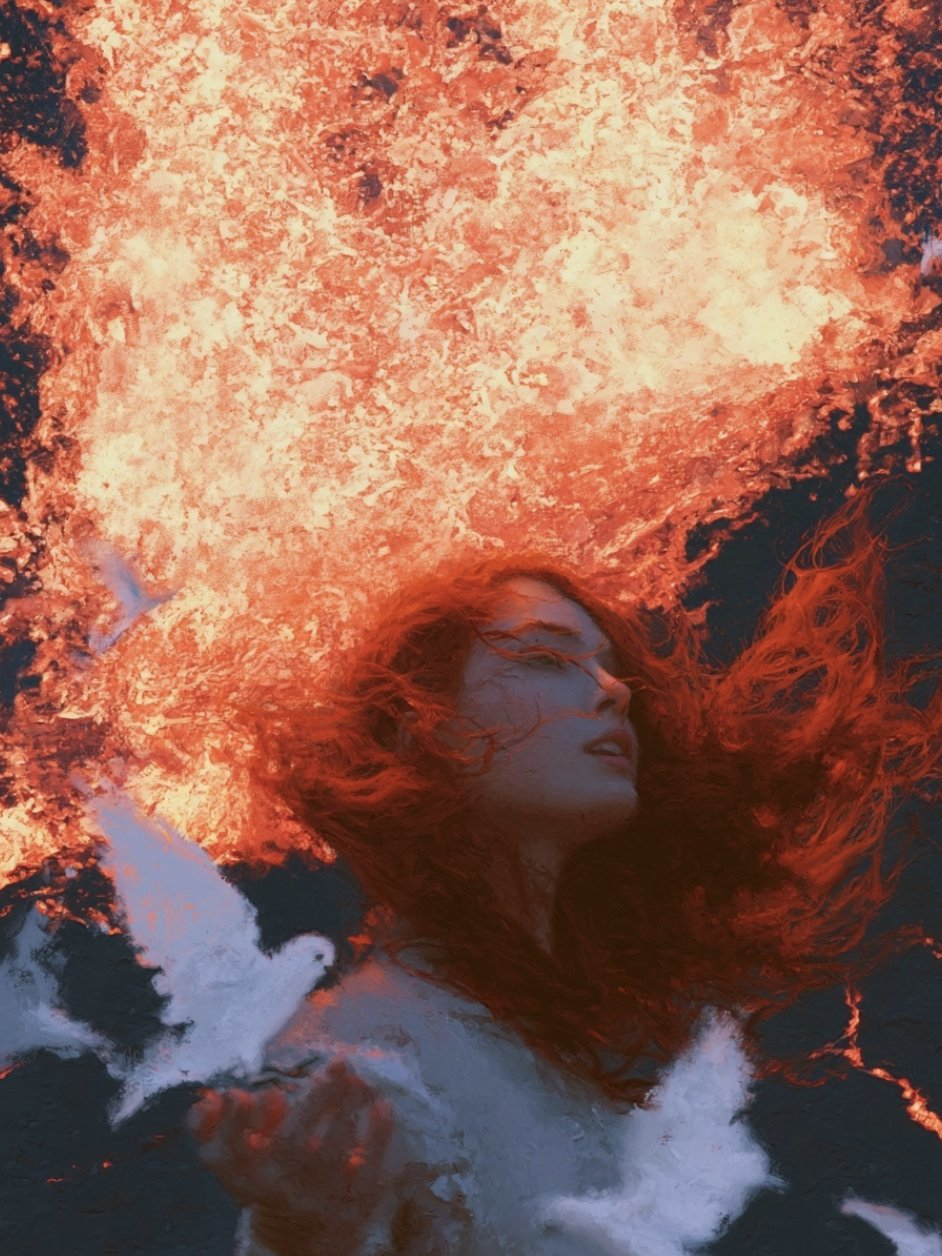
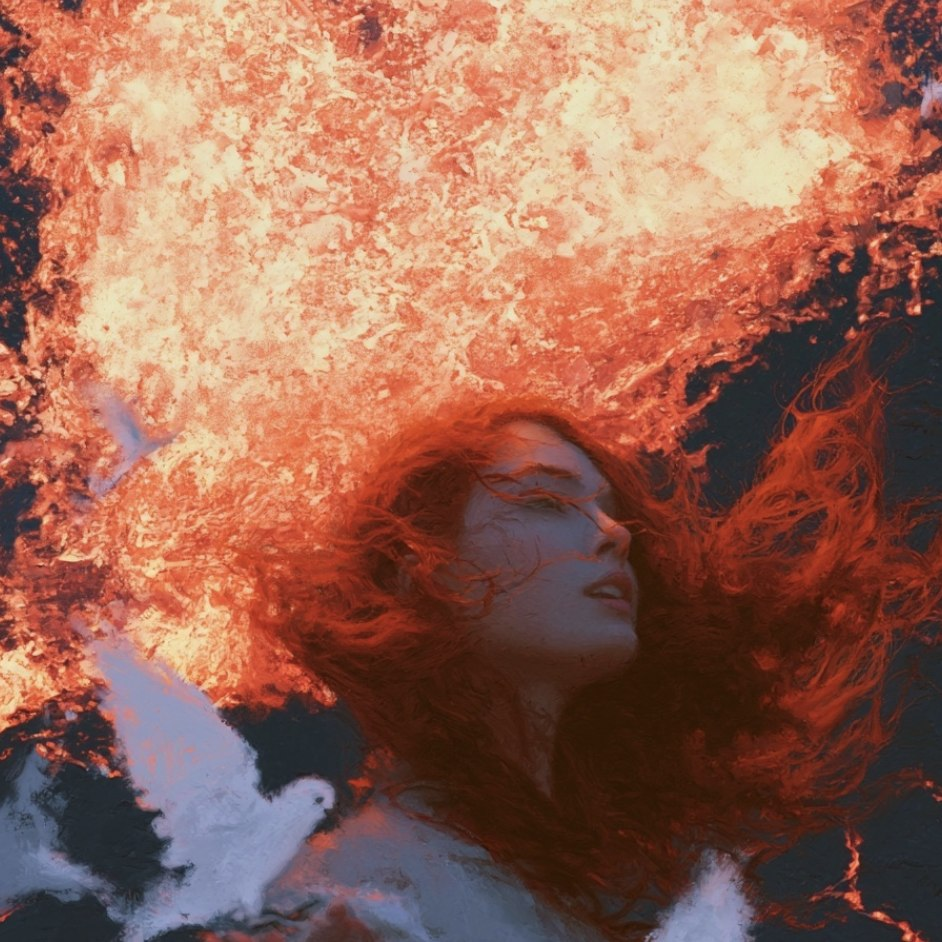
Rebuild the scroll gallery as a true 3D scene (R3F/Three.js)
Replaces the CSS/Framer 2D fade version with a real Three.js camera
dolly: 12 photos sit in a fixed 4x3 grid of 1:1 squares, each seeded
with its own initial depth offset (1-5 units back) and random tilt
(rotateX/Y up to 15deg, rotateZ up to 5deg). Scroll progress drives
the camera forward along Z (read straight off the track element's
bounding rect each frame, damped-lerp smoothed for glide/inertia, no
React state in the hot path); each tile's own local reveal window is
derived from its depth, so shallower tiles snap into focus first and
deeper ones catch up later. At full scroll every tile's local
progress reaches 1 and they flatten to rotation 0 on the shared grid
plane. Lazy-loaded (mirrors the ButterflyEgg/WorldArchive pattern) so
three.js stays out of the main bundle, wrapped in SafeMount, and
falls back to a static CSS grid under prefers-reduced-motion or if
WebGL/the chunk fails to load.

Source photos re-cropped to true 1:1 squares (were the original
aspect ratios) since the grid logic now depends on square tiles.

diff --git a/src/components/ScrollGalleryScene.jsx b/src/components/ScrollGalleryScene.jsx
@@ -1,0 +1,148 @@
+import { useMemo, useRef } from 'react'
+import { Canvas, useFrame, useThree } from '@react-three/fiber'
+import { useTexture } from '@react-three/drei'
+import * as THREE from 'three'
+
+const COLS = 4
+const ROWS = 3
+const UNIT = 2 // each square is 2x2 world units
+const GAP = 0.35
+const STEP = UNIT + GAP
+
+/** Deterministic pseudo-random (mulberry32) so the scatter doesn't reshuffle
+ *  on every re-render/reload — same approach as WorldArchive's layout seed. */
+function mulberry32(seed) {
+  let a = seed
+  return () => {
+    a |= 0
+    a = (a + 0x6d2b79f5) | 0
+    let t = Math.imul(a ^ (a >>> 15), 1 | a)
+    t = (t + Math.imul(t ^ (t >>> 7), 61 | t)) ^ t
+    return ((t ^ (t >>> 14)) >>> 0) / 4294967296
+  }
+}
+
+/** Base grid position (fixed, never animated) + each tile's initial depth
+ *  offset and tilt (animated to 0 as its own local scroll window completes).
+ *  Depth directly drives the reveal window: tiles seeded further back
+ *  (more negative z) get a later window, so the camera "reaches" shallow
+ *  tiles first and deep ones last — the async, staggered pass-by. */
+function useTileLayout() {
+  return useMemo(() => {
+    const rand = mulberry32(20260704)
+    const deg = (d) => (d * Math.PI) / 180
+
+    return Array.from({ length: COLS * ROWS }, (_, i) => {
+      const col = i % COLS
+      const row = Math.floor(i / COLS)
+      const x = (col - (COLS - 1) / 2) * STEP
+      const y = ((ROWS - 1) / 2 - row) * STEP
+
+      const depth = 1 + rand() * 4 // 1..5 world units behind the flat grid plane
+      const rotX = (rand() * 2 - 1) * deg(15)
+      const rotY = (rand() * 2 - 1) * deg(15)
+      const rotZ = (rand() * 2 - 1) * deg(5)
+
+      const lateness = (depth - 1) / 4 // 0 (shallow) .. 1 (deepest)
+      const start = lateness * 0.5
+      const end = Math.min(1, start + 0.55)
+
+      return { x, y, depth, rotX, rotY, rotZ, start, end }
+    })
+  }, [])
+}
+
+function Tile({ tile, texture, progressRef }) {
+  const ref = useRef(null)
+
+  useFrame(() => {
+    const mesh = ref.current
+    if (!mesh) return
+    const p = progressRef.current
+    const local = THREE.MathUtils.clamp((p - tile.start) / (tile.end - tile.start), 0, 1)
+    const eased = local * local * (3 - 2 * local) // smoothstep — gentle ease, no overshoot
+
+    mesh.position.z = -tile.depth * (1 - eased)
+    mesh.rotation.x = tile.rotX * (1 - eased)
+    mesh.rotation.y = tile.rotY * (1 - eased)
+    mesh.rotation.z = tile.rotZ * (1 - eased)
+    const scale = 0.82 + 0.18 * eased
+    mesh.scale.setScalar(scale)
+    if (mesh.material) mesh.material.opacity = 0.08 + 0.92 * eased
+  })
+
+  return (
+    <mesh ref={ref} position={[tile.x, tile.y, -tile.depth]}>
+      <planeGeometry args={[UNIT, UNIT]} />
+      <meshBasicMaterial map={texture} transparent toneMapped={false} />
+    </mesh>
+  )
+}
+
+/** Camera dolly: reads live scroll progress off the track element's own
+ *  bounding rect every frame (no React state in the hot path) and eases the
+ *  actual camera position toward it with a damped lerp, so releasing the
+ *  scroll gesture glides a little further before settling instead of
+ *  snapping — the "inertia" the reference site has. */
+function CameraRig({ trackRef, progressRef }) {
+  const { camera, size } = useThree()
+  const smoothed = useRef(0)
+
+  useFrame((_, delta) => {
+    const track = trackRef.current
+    if (!track) return
+    const rect = track.getBoundingClientRect()
+    const scrollable = rect.height - window.innerHeight
+    const raw = scrollable > 0 ? -rect.top / scrollable : 0
+    const target = THREE.MathUtils.clamp(raw, 0, 1)
+
+    // frame-rate independent damping
+    const damping = 1 - Math.pow(0.015, delta)
+    smoothed.current += (target - smoothed.current) * damping
+    progressRef.current = smoothed.current
+
+    const gridWidth = COLS * STEP
+    const gridHeight = ROWS * STEP
+    const aspect = size.width / size.height
+    const vFov = (camera.fov * Math.PI) / 180
+    const fitHeight = gridHeight / 2 / Math.tan(vFov / 2)
+    const fitWidth = gridWidth / 2 / (Math.tan(vFov / 2) * aspect)
+    const fitDistance = Math.max(fitHeight, fitWidth) * 1.15
+
+    const startZ = fitDistance * 3.4
+    camera.position.z = THREE.MathUtils.lerp(startZ, fitDistance, smoothed.current)
+  })
+
+  return null
+}
+
+function Scene({ trackRef }) {
+  const tiles = useTileLayout()
+  const progressRef = useRef(0)
+  const urls = useMemo(
+    () => tiles.map((_, i) => `/assets/scroll_gallery/scroll_gallery_${String(i + 1).padStart(2, '0')}.jpg`),
+    [tiles],
+  )
+  const textures = useTexture(urls)
+
+  return (
+    <>
+      <CameraRig trackRef={trackRef} progressRef={progressRef} />
+      {tiles.map((tile, i) => (
+        <Tile key={i} tile={tile} texture={textures[i]} progressRef={progressRef} />
+      ))}
+    </>
+  )
+}
+
+export default function ScrollGalleryScene({ trackRef }) {
+  return (
+    <Canvas
+      camera={{ position: [0, 0, 30], fov: 45 }}
+      dpr={[1, 1.5]}
+      gl={{ antialias: true, alpha: true }}
+    >
+      <Scene trackRef={trackRef} />
+    </Canvas>
+  )
+}

diff --git a/src/components/ScrollGallery.jsx b/src/components/ScrollGallery.jsx
@@ -1,85 +1,46 @@
-import { useRef } from 'react'
-import { motion, useReducedMotion, useScroll, useTransform } from 'framer-motion'
+import { lazy, Suspense, useRef } from 'react'
+import { useReducedMotion } from 'framer-motion'
+import SafeMount from './butterfly/SafeMount'
 
-/**
- * Scattered photo-wall layout — position/size/rotation only, hand-tuned
- * (not random per-render) so the composition is stable across reloads.
- * Each image also gets its own [start, end] scroll-progress window so the
- * wall fills in unevenly: some photos are already crisp while others have
- * barely begun, same as the reference site's staggered reveal.
- */
-const PHOTOS = [
-  { src: '01', top: '10%', left: '18%', w: '30vw', rotate: -6, range: [0.0, 0.42] },
-  { src: '02', top: '6%', left: '58%', w: '19vw', rotate: 5, range: [0.08, 0.5] },
-  { src: '03', top: '52%', left: '6%', w: '19vw', rotate: 4, range: [0.04, 0.46] },
-  { src: '04', top: '46%', left: '62%', w: '23vw', rotate: -4, range: [0.14, 0.56] },
-  { src: '05', top: '14%', left: '38%', w: '20vw', rotate: -3, range: [0.22, 0.64] },
-  { src: '06', top: '66%', left: '30%', w: '28vw', rotate: 3, range: [0.18, 0.6] },
-  { src: '07', top: '10%', left: '78%', w: '21vw', rotate: 6, range: [0.3, 0.72] },
-  { src: '08', top: '58%', left: '78%', w: '18vw', rotate: -5, range: [0.26, 0.68] },
-  { src: '09', top: '2%', left: '4%', w: '17vw', rotate: 3, range: [0.38, 0.8] },
-  { src: '10', top: '70%', left: '58%', w: '14vw', rotate: -6, range: [0.34, 0.76] },
-  { src: '11', top: '38%', left: '20%', w: '24vw', rotate: 5, range: [0.46, 0.88] },
-  { src: '12', top: '34%', left: '48%', w: '20vw', rotate: -3, range: [0.5, 0.94] },
-]
+// three.js/R3F stay out of the main bundle — only fetched once this section
+// is actually rendered (mirrors ButterflyEgg/WorldArchive's lazy pattern).
+const ScrollGalleryScene = lazy(() => import('./ScrollGalleryScene'))
 
-function Photo({ photo, progress }) {
-  const reduceMotion = useReducedMotion()
-  const opacity = useTransform(progress, photo.range, [0, 1])
-  const scale = useTransform(progress, photo.range, [0.72, 1])
-  const y = useTransform(progress, photo.range, [40, 0])
+const PHOTO_COUNT = 12
 
-  if (reduceMotion) {
-    return (
-      <img
-        src={`/assets/scroll_gallery/scroll_gallery_${photo.src}.jpg`}
-        alt=""
-        loading="lazy"
-        decoding="async"
-        className="absolute rounded-sm object-cover shadow-[0_18px_40px_rgba(20,16,31,0.18)]"
-        style={{
-          top: photo.top,
-          left: photo.left,
-          width: photo.w,
-          rotate: `${photo.rotate}deg`,
-        }}
-      />
-    )
-  }
-
+function StaticGrid() {
   return (
-    <motion.img
-      src={`/assets/scroll_gallery/scroll_gallery_${photo.src}.jpg`}
-      alt=""
-      loading="lazy"
-      decoding="async"
-      className="absolute rounded-sm object-cover shadow-[0_18px_40px_rgba(20,16,31,0.18)]"
-      style={{
-        top: photo.top,
-        left: photo.left,
-        width: photo.w,
-        rotate: `${photo.rotate}deg`,
-        opacity,
-        scale,
-        y,
-      }}
-    />
+    <div className="grid h-full w-full grid-cols-4 grid-rows-3 place-items-center gap-3 p-6 md:gap-4 md:p-10">
+      {Array.from({ length: PHOTO_COUNT }, (_, i) => (
+        <img
+          key={i}
+          src={`/assets/scroll_gallery/scroll_gallery_${String(i + 1).padStart(2, '0')}.jpg`}
+          alt=""
+          loading="lazy"
+          decoding="async"
+          className="aspect-square h-full w-full rounded-sm object-cover shadow-[0_18px_40px_rgba(20,16,31,0.18)]"
+        />
+      ))}
+    </div>
   )
 }
 
 export default function ScrollGallery() {
   const trackRef = useRef(null)
-  const { scrollYProgress } = useScroll({
-    target: trackRef,
-    offset: ['start start', 'end end'],
-  })
+  const reduceMotion = useReducedMotion()
 
   return (
-    <section ref={trackRef} className="relative z-20 h-[320vh] w-full">
+    <section ref={trackRef} className="relative z-20 h-[300vh] w-full">
       <div className="sticky top-0 h-dvh w-full overflow-hidden">
-        {PHOTOS.map((photo) => (
-          <Photo key={photo.src} photo={photo} progress={scrollYProgress} />
-        ))}
+        {reduceMotion ? (
+          <StaticGrid />
+        ) : (
+          <SafeMount>
+            <Suspense fallback={<StaticGrid />}>
+              <ScrollGalleryScene trackRef={trackRef} />
+            </Suspense>
+          </SafeMount>
+        )}
       </div>
     </section>
   )
